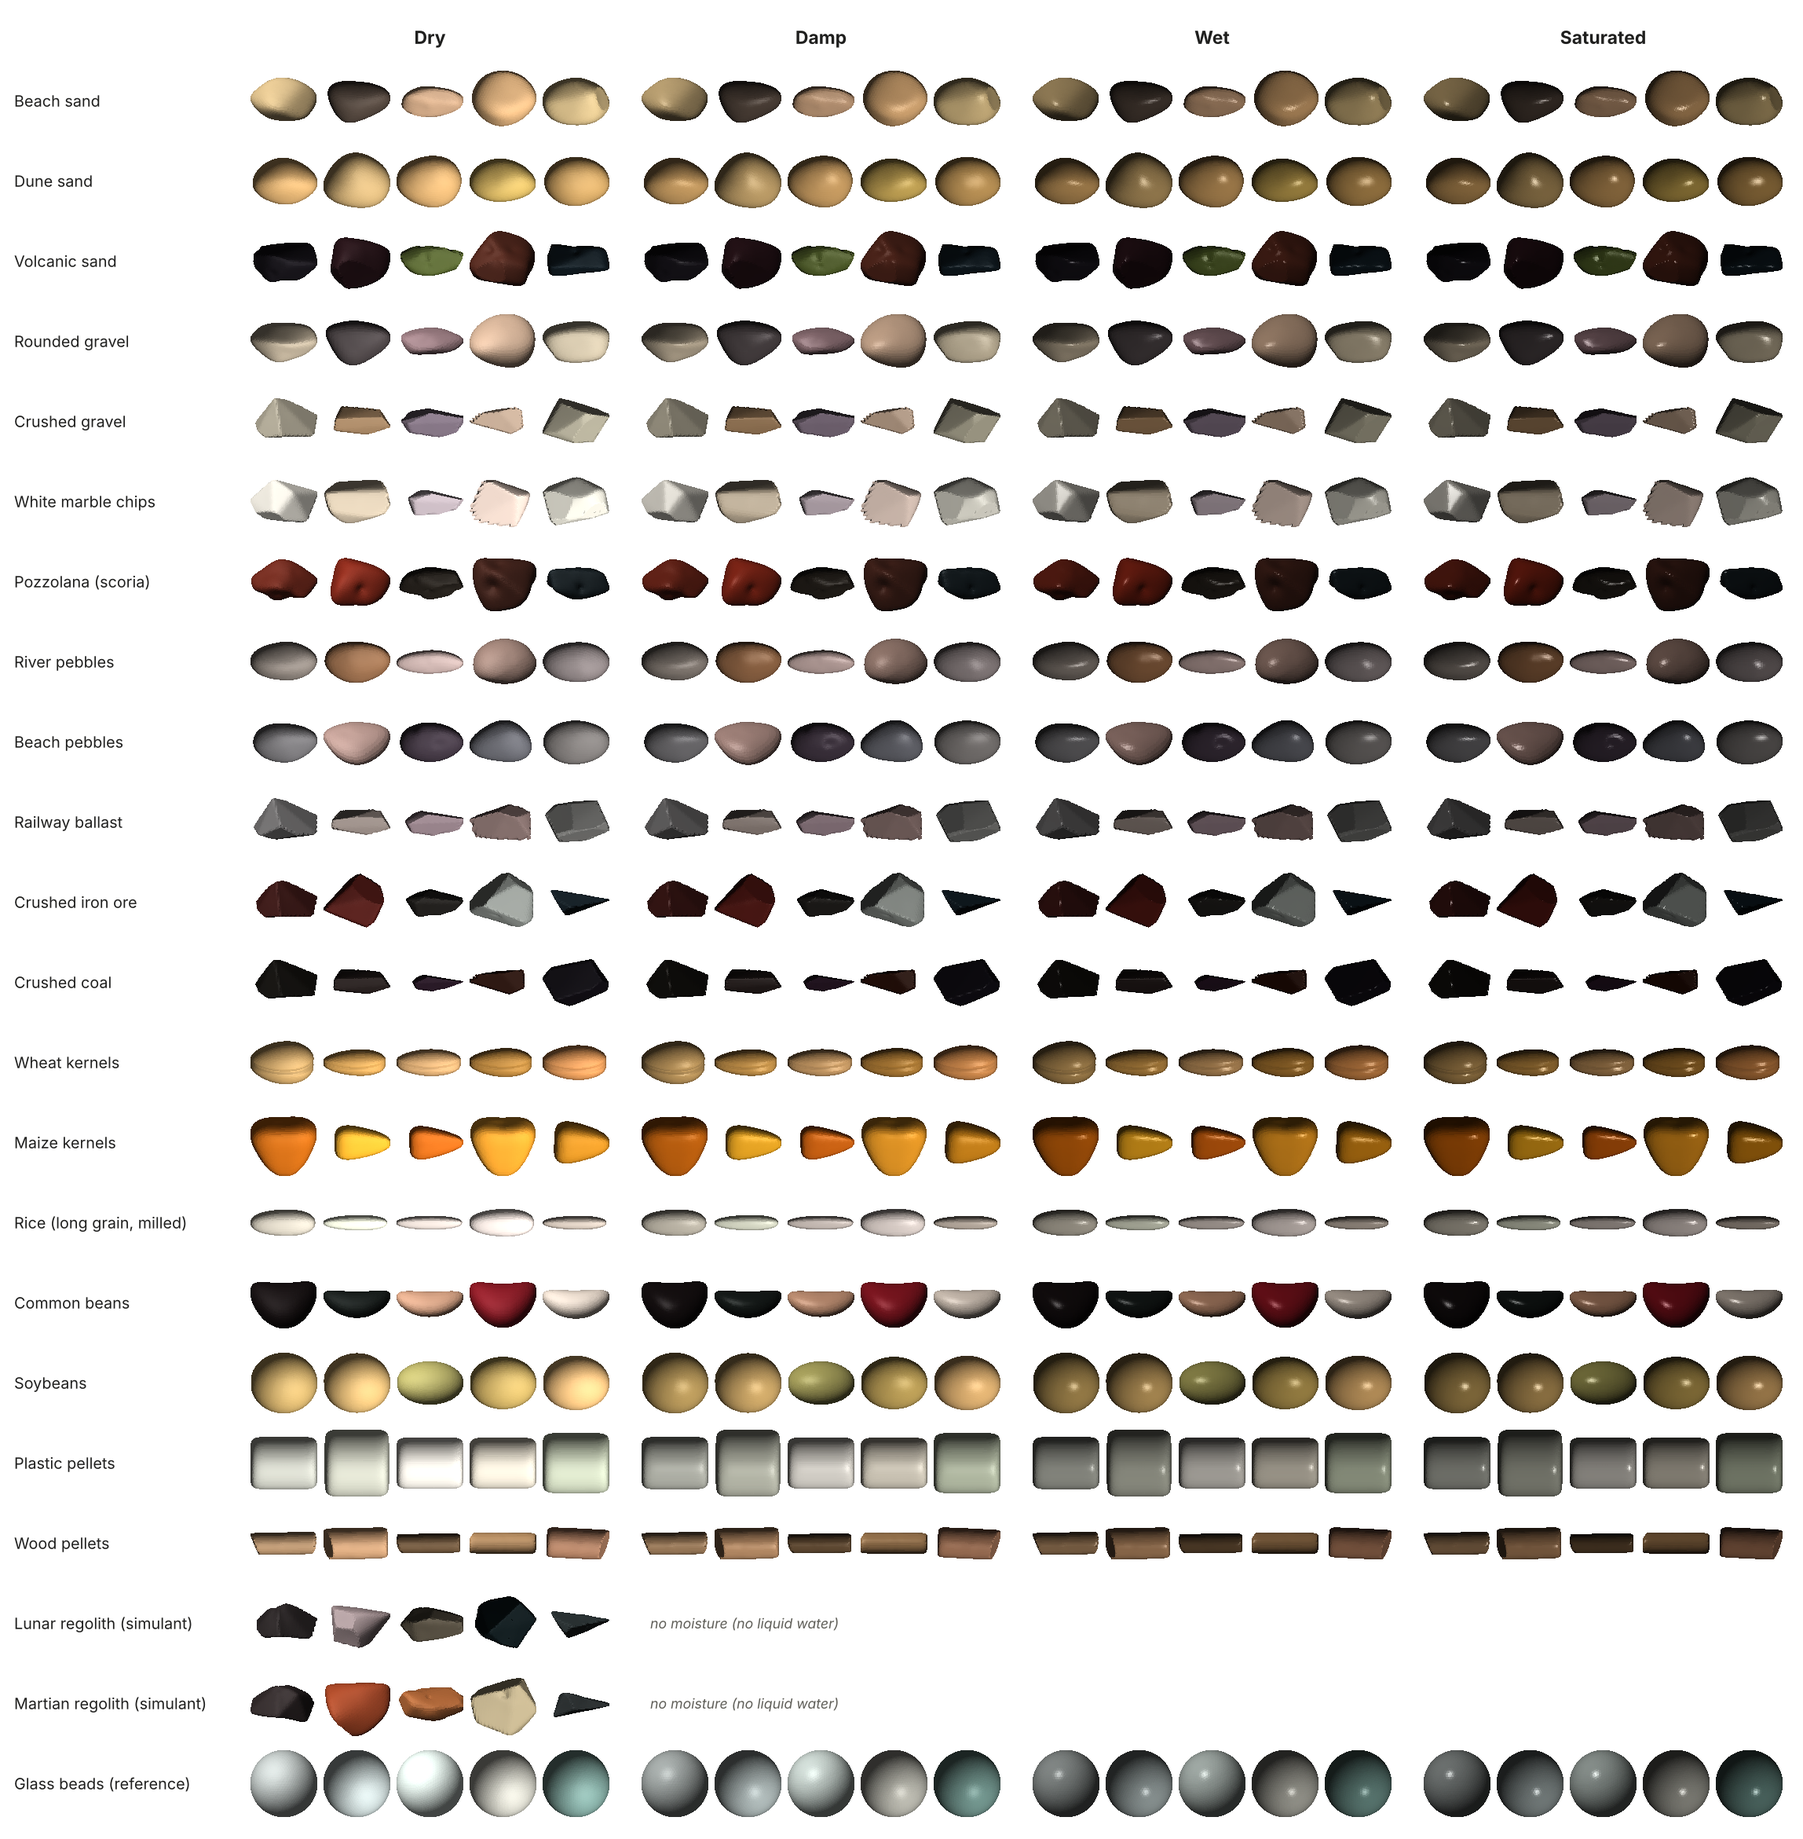
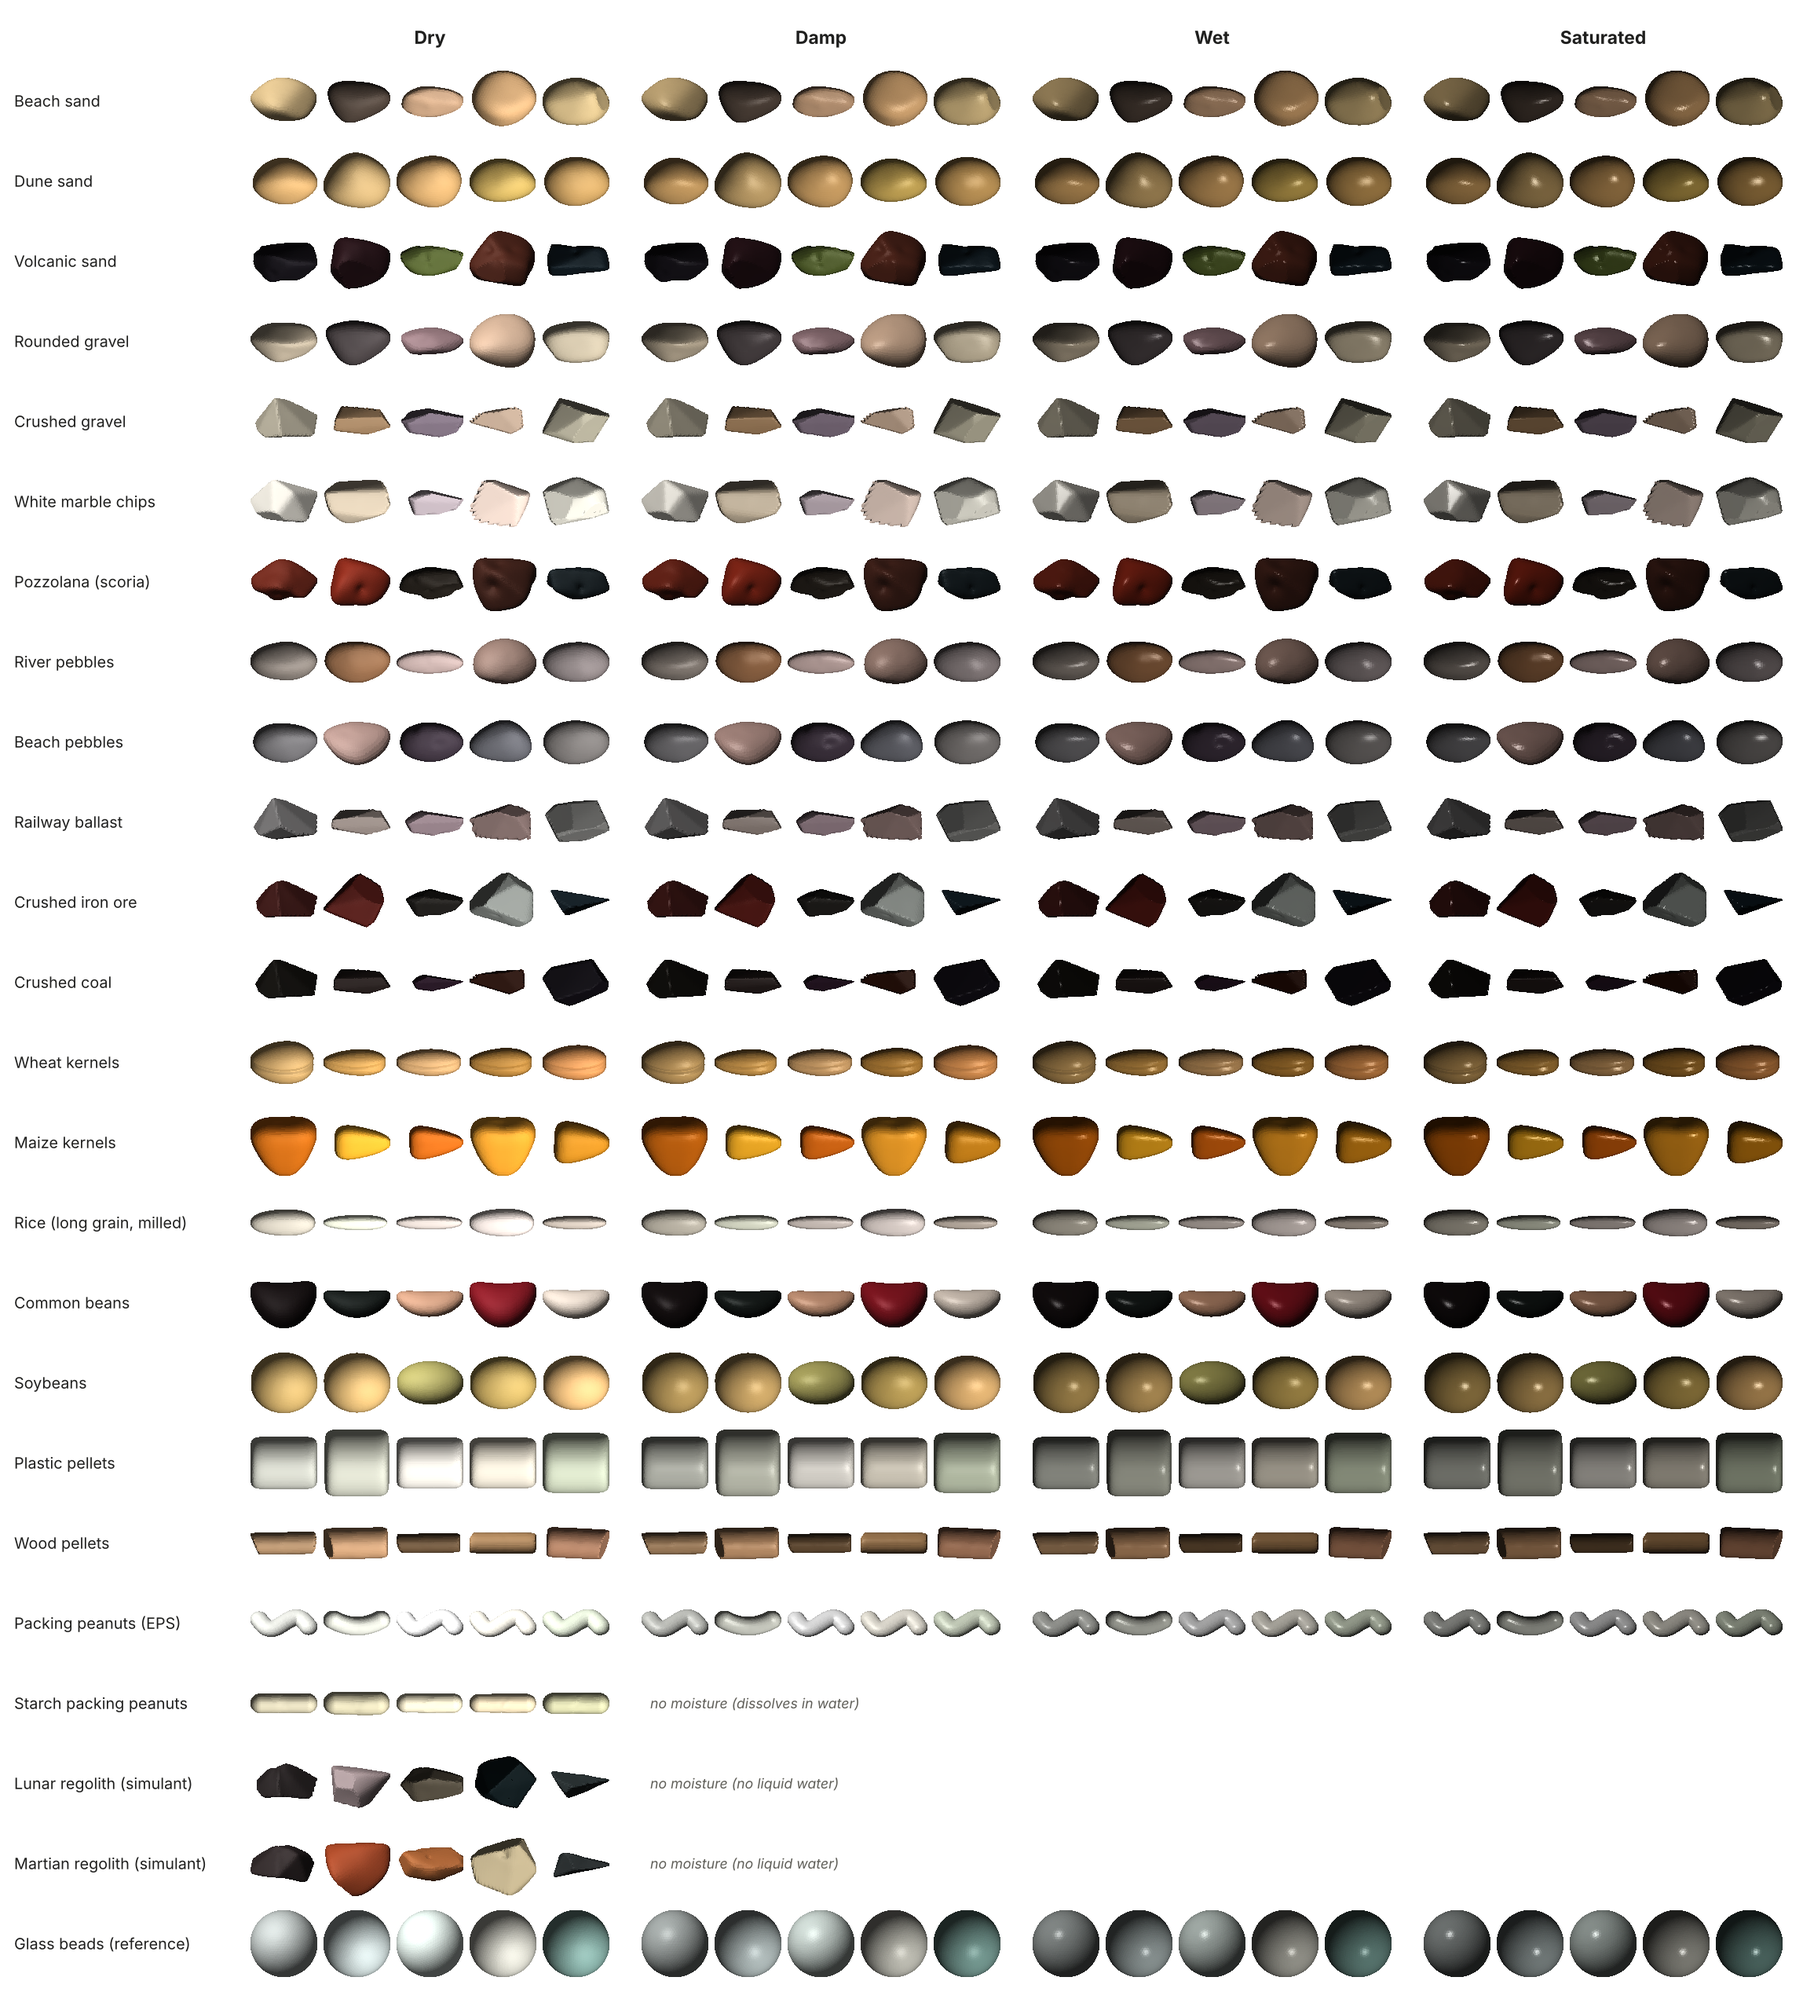
docs: document deformable packing peanuts and update the gallery
Claude-Session: https://claude.ai/code/session_018N8znGwHePHcJb8413kgw5

diff --git a/README.md b/README.md
@@ -6,7 +6,7 @@ Everything runs on CPU.
 
 ![Five grains of each preset in the four moisture states](docs/images/moisture_gallery.png)
 
-*Five different grains of each of the 22 presets, dry, damp, wet and
+*Five different grains of each of the 24 presets, dry, damp, wet and
 saturated, rendered from the generated meshes. Each grain is drawn at its own
 scale: sizes range from 0.07 mm (lunar regolith) to ~5 cm (river pebbles).
 Regenerate with `granulat render-gallery` (see Usage).*
@@ -49,7 +49,7 @@ granulat render-gallery output/beach_sand output/crushed_gravel --grains 5
 ```
 
 The README gallery comes from generating every preset with `--moisture`, then
-`granulat render-gallery` on all 22 output folders in category order, with
+`granulat render-gallery` on all 24 output folders in category order, with
 `--output docs/images/moisture_gallery.png`.
 
 `python -m granulat ...` works too. From Python:
@@ -72,6 +72,7 @@ write_outputs(scene, "output")
 | Industrial | `railway_ballast`, `iron_ore`, `coal` |
 | Agricultural | `wheat` (kernels with a ventral crease), `maize` (wedge-shaped dent kernels), `rice` (long grain, milled), `beans` (kidney-shaped, mixed varieties), `soybean` |
 | Pellets | `plastic_pellets` (PE/PP, ~3.4 mm), `wood_pellets` (6 mm diameter, 10–30 mm long, broken ends) |
+| Packaging | `packing_peanuts` (expanded polystyrene, S or C shaped), `starch_peanuts` (biodegradable, no moisture: they dissolve); both **deformable** |
 | Space | `lunar_regolith`, `martian_regolith` (no moisture) |
 | Reference | `glass_beads`: exact spheres, the baseline to compare real grains against |
 
@@ -107,6 +108,35 @@ Every prototype carries a `moisture` variant set (`dry`, `damp`, `wet`,
 In usdview or Omniverse, change a grain's state by changing its variant
 selection. Blender's USD importer takes the state selected at import time.
 Contact and cohesion coefficients are indicative and still need calibrating.
+
+### Deformable grains (packing peanuts)
+
+Core OpenUSD has no deformable-body schema yet: UsdPhysics covers rigid
+bodies. Deformable presets follow NVIDIA's **OmniPhysics deformable schema**
+(Omniverse, Isaac Sim 5), which is built on the core `UsdGeom.TetMesh`:
+
+```
+/World/Prototypes/Grain_000   Xform  + OmniPhysicsDeformableBodyAPI (omniphysics:mass)
+  geom                        Mesh   + OmniPhysicsDeformablePoseAPI:custom (bind pose)
+  sim                         TetMesh + OmniPhysicsVolumeDeformableSimAPI
+                                      + OmniPhysicsDeformablePoseAPI:custom
+                                      + PhysicsCollisionAPI
+/World/Looks/Phys[_<state>]   Material + OmniPhysicsDeformableMaterialAPI
+                              (Young's modulus, Poisson's ratio, density, friction)
+```
+
+- The simulation mesh fills the grain's volume with tetrahedra (voxels split
+  into 6 tetrahedra each, ~1,200 per peanut); the render mesh follows it
+  through the bind pose. The tetrahedral volume matches the surface within a
+  few percent.
+- The schemas are applied by name, so the file stays valid OpenUSD in any
+  tool; engines that do not know them see a static mesh. `usd-core` does not
+  list unregistered schemas in `GetAppliedSchemas()`, but they are in the
+  file (`apiSchemas` metadata).
+- In Omniverse / Isaac Sim, PhysX simulates deformable bodies on the GPU.
+- `--no-deformable` exports the same presets as rigid bodies.
+- Material values (EPS: E ≈ 1 MPa, ν ≈ 0.1; starch foam: E ≈ 0.8 MPa,
+  ν ≈ 0.15) are indicative.
 
 ## Outputs (per preset, under `output/<preset>/`)
 
@@ -156,11 +186,14 @@ rigid-body engines with default settings. Rules of thumb behind the table:
 |---|---|---|
 | **Not usable as individual rigid bodies** | `lunar_regolith` (0.07 mm · ~13 µg), `martian_regolith` (0.12 mm · ~0.1 mg), `dune_sand` (0.22 mm · ~18 µg), `beach_sand` (0.36 mm · ~0.1 mg), `volcanic_sand` (0.49 mm · ~0.4 mg), `glass_beads` (1 mm · ~1.4 mg) | Use for rendering and perception; for physics, use a continuum model (MPM), a deformable heightfield, or scaled-up grains |
 | **Unstable without tuning** | `rice` (2.8 mm, 1.6 mm thick · ~18 mg), `plastic_pellets` (3.4 mm · ~20 mg), `wheat` (4.1 mm · ~53 mg), `rounded_gravel` (5.8 mm · ~0.4 g), `soybean` (6.6 mm · ~0.19 g), `beans` (9.1 mm, 5.8 mm thick · ~0.53 g), `maize` (7.4 mm, 4.7 mm thick · ~0.29 g), `crushed_gravel` (8.2 mm · ~1 g) | Reduce contact offsets / margins to ~1 mm, enable CCD, use substeps or a smaller time step |
-| **Workable with tuning** | `wood_pellets` (9.8 mm, 6 mm thick · ~0.6 g), `pozzolana` (11 mm · ~1.5 g, very light), `marble_chips` (11.5 mm · ~2.5 g), `iron_ore` (16 mm · ~17 g) | Same settings as above; check stability against the heaviest body in contact |
+| **Workable with tuning** | `packing_peanuts` (20 mm, ~9 mm thick · ~50 mg, extremely light), `starch_peanuts` (18 mm · ~60 mg), `wood_pellets` (9.8 mm, 6 mm thick · ~0.6 g), `pozzolana` (11 mm · ~1.5 g, very light), `marble_chips` (11.5 mm · ~2.5 g), `iron_ore` (16 mm · ~17 g) | Same settings as above; check stability against the heaviest body in contact |
 | **Generally fine** | `coal` (23 mm · ~15 g), `beach_pebbles` (40 mm · ~110 g), `railway_ballast` (40 mm · ~100 g), `river_pebbles` (47 mm · ~240 g) | Keep CCD on for impacts; in Blender, lower the default 0.04 m margin |
 
 For elongated or flat grains (rice, maize, beans, pellets), the **thickness** is what
-matters for tunnelling, not the nominal size.
+matters for tunnelling, not the nominal size. Packing peanuts are large but
+weigh almost nothing: the mass ratio with anything they touch is the main risk,
+and as deformable bodies they need an engine that supports the OmniPhysics
+deformable schema.
 
 These are orders of magnitude, not hard limits: the actual threshold depends
 on the engine, time step, solver iterations, contact settings and the bodies
@@ -182,9 +215,13 @@ the gravel and pebble presets.
   hundred grains; instancing is for rendering surfaces.
 - **Angularity is a proxy**, not Wadell roundness, and is only comparable
   between grains of the same mesh resolution.
-- **Collision uses the convex hull.** Pits, creases and dents are visible but
-  not part of the collision shape; hollow shells (whole seashells) are not
-  generated.
+- **Collision uses the convex hull** for rigid grains. Pits, creases and dents
+  are visible but not part of the collision shape; hollow shells (whole
+  seashells) are not generated. Deformable grains collide with their
+  tetrahedral mesh.
+- **Deformables rely on a vendor schema.** Until OpenUSD standardises
+  deformable bodies, only engines that read the OmniPhysics schema simulate
+  them.
 - **Mesh resolution.** Marching cubes runs on a 48-cell grid along the longest
   axis; the sharpest edges can show slight stair-stepping.
 

diff --git a/CHANGELOG.md b/CHANGELOG.md
@@ -9,6 +9,11 @@ and the project uses [Semantic Versioning](https://semver.org/).
 ### Added
 - Agricultural presets: `wheat`, `maize`, `rice`, `beans`, `soybean`; pellet presets:
   `plastic_pellets`, `wood_pellets`; new categories Agricultural and Pellets.
+- Deformable packing peanuts: `packing_peanuts` (EPS) and `starch_peanuts`,
+  new Packaging category. Tube shape family (S, C or straight), tetrahedral
+  simulation mesh (`UsdGeom.TetMesh`) and NVIDIA OmniPhysics deformable
+  schemas (body, volume simulation, bind pose, material). `--no-deformable`
+  exports them as rigid bodies.
 - Shape families: superellipsoid (kernels, seeds) and cylinder (pellets),
   plus crease, crown dent, kidney bend and axial end cuts.
 - Per-preset irregularity: fracture chips, low-frequency lumps, egg/wedge
